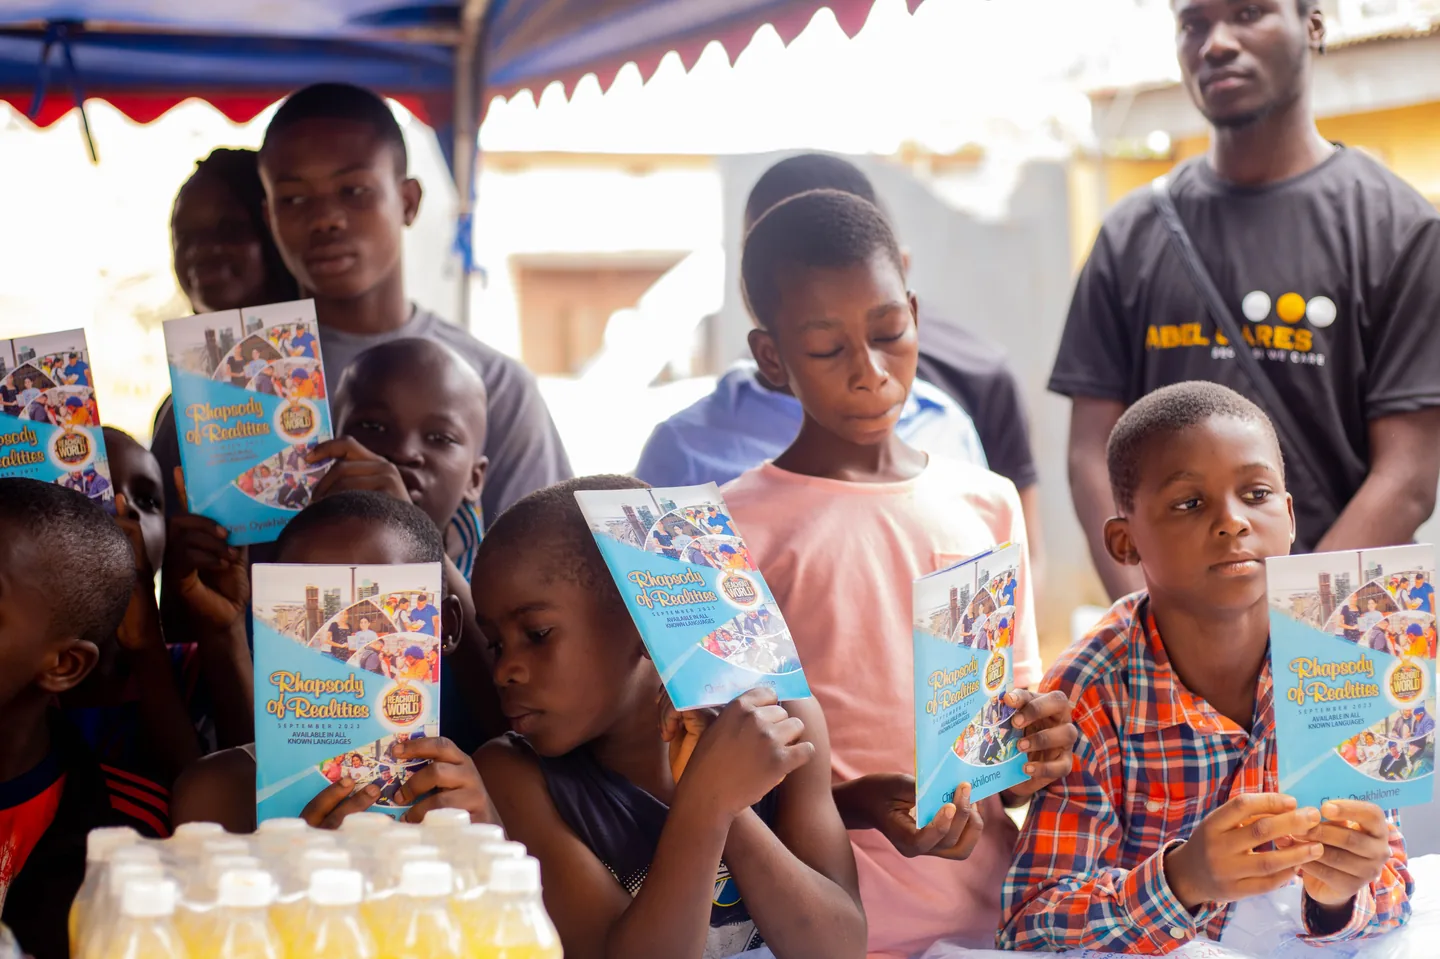
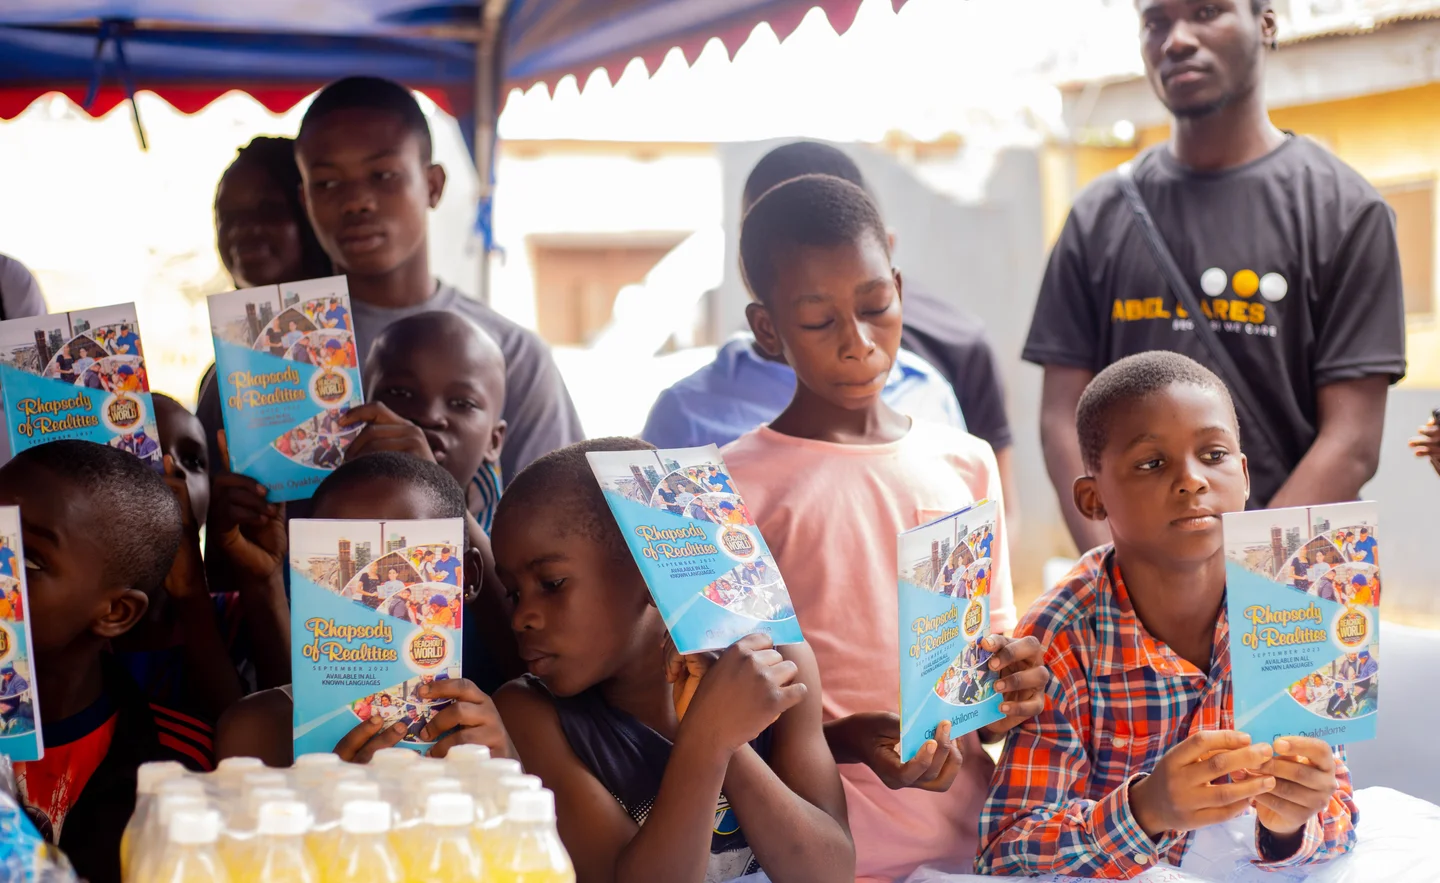
feat(impact): full-bleed green band with 1,500 stat, milestone rows, 3-photo mosaic

diff --git a/impact.html b/impact.html
@@ -63,26 +63,28 @@
 
   <main id="main-content">
 
-    <!-- ── 1. OPENER: TEXT-LEFT WITH BRUSH-UNDERLINE & REAL PHOTO ── -->
+    <!-- ── 1. OPENER: TEXT-LEFT WITH BRUSH-UNDERLINE & WATERMARK-FREE PHOTO ── -->
     <section class="aci-page-hero" aria-labelledby="impact-title">
       <div class="aci-container">
-        <div class="aci-page-hero-grid">
+        <div class="aci-page-hero-grid" style="align-items: center;">
           <div class="aci-page-hero-content">
+            <span class="aci-eyebrow">Measurable Outcomes</span>
             <h1 id="impact-title" class="aci-h1">
-              What we've done <span class="aci-brush-wrap">so far.<span class="aci-brush-stroke" aria-hidden="true"></span></span>
+              <span class="aci-line-mask"><span class="aci-mask-rise">What we've done</span></span>
+              <span class="aci-line-mask"><span class="aci-mask-rise aci-line-2"><span class="aci-brush-wrap">so far.<span class="aci-brush-stroke" aria-hidden="true"></span></span></span></span>
             </h1>
             <p class="aci-lead">
               We empower individuals, communities, and institutions through programs that address learning, mental well-being, youth empowerment, and community resilience.
             </p>
           </div>
           <div class="aci-page-hero-media">
-            <div class="aci-rounded-frame" style="aspect-ratio: 16/10;">
+            <div class="aci-photo-wipe aci-rounded-frame" style="aspect-ratio: 16/10; border-radius: 8px; overflow: hidden; box-shadow: 0 4px 16px rgba(0,0,0,0.06);">
               <img src="images/IMG_8910.webp"
                    srcset="images/IMG_8910-480w.webp 480w, images/IMG_8910-960w.webp 960w, images/IMG_8910-1440w.webp 1440w, images/IMG_8910.webp 1600w"
                    sizes="(max-width: 991px) 100vw, 45vw"
                    alt="AbleCares Initiative Africa school outreach and learning materials distribution in Ghana"
                    width="1600"
-                   height="1066"
+                   height="980"
                    fetchpriority="high">
             </div>
           </div>
@@ -90,24 +92,115 @@
       </div>
     </section>
 
-    <!-- ── 2. VERIFIED METRIC (1 VISIBLE STAT ONLY) ── -->
-    <section class="aci-section aci-band" aria-label="Verified Metric">
+    <!-- ── CULTURAL LAYER (QUARANTINED BEHIND body.aci-cultural-on) ── -->
+    <div class="aci-cultural-element" aria-hidden="true">
+      <img src="images/patterns/woven-band.svg" alt="" style="width: 100%; height: 32px; display: block;">
+    </div>
+    <!-- [CULTURAL REVIEW SLOT: Akan Woforo Dua Pa A symbol / proverb pending founder sign-off in language-review.md] -->
+
+    <!-- ── 2. FULL-BLEED GREEN BAND WITH AFRICA SILHOUETTE & GIANT 1,500 ── -->
+    <section class="aci-impact-green-band" aria-label="Program Scale">
       <div class="aci-container">
-        <div class="aci-stat-card">
-          <div class="aci-stat-num">
-            1,500 <span class="aci-badge-completed" style="font-size: 0.875rem; vertical-align: middle;">[VERIFY]</span>
+        <div class="aci-impact-band-inner">
+          <div>
+            <span class="aci-eyebrow" style="color: rgba(255, 255, 255, 0.85); margin-bottom: 8px;">Documented Reach</span>
+            <div class="aci-giant-stat-num" data-counter-target="1500">1,500</div>
+            <!-- [VERIFY: 1,500 young people mentored through EmpowerTalks Africa (Section 5A spells 'EmpowerTalks Africa', Section 10 spells 'EmpoweredTalks Africa')] -->
+            <div class="aci-giant-stat-label">
+              Young people mentored through EmpowerTalks Africa
+            </div>
+            <p class="aci-giant-stat-desc">
+              Foundational youth mentorship, speaking events, and community engagement conducted across outreach sessions.
+            </p>
           </div>
-          <div class="aci-stat-label">
-            Young people mentored through EmpoweredTalks Africa
+          <div class="aci-africa-silhouette-outline" aria-hidden="true">
+            <!-- Natural Earth Africa Outline [Source: Natural Earth public domain vector data] -->
+            <svg viewBox="0 0 400 440" xmlns="http://www.w3.org/2000/svg">
+              <path d="M140 25 C190 20 280 40 330 90 C360 120 375 160 370 200 C360 230 330 260 300 290 C260 330 220 380 200 420 C190 410 180 370 170 340 C150 280 120 240 100 200 C70 160 50 140 60 100 C70 60 100 30 140 25 Z" />
+            </svg>
           </div>
-          <p class="aci-stat-desc">
-            Youth mentorship, speaking events, and community engagement conducted across outreach sessions.
-          </p>
         </div>
       </div>
     </section>
 
-    <!-- ── 3. FIELD CASE STUDIES (QUARANTINED PENDING AUTHENTIC CLIENT RECORDS) ── -->
+    <!-- ── 3. ACHIEVEMENTS & MILESTONES (EXACT ACI DOCUMENT SECTION 10 TITLES) ── -->
+    <section class="aci-section" aria-labelledby="milestones-heading" style="padding: clamp(56px, 7vw, 112px) 0;">
+      <div class="aci-container">
+        <div>
+          <span class="aci-eyebrow">Program Milestones</span>
+          <h2 id="milestones-heading" class="aci-h2">
+            <span class="aci-line-mask"><span class="aci-mask-rise">Achievements &amp; milestones.</span></span>
+          </h2>
+          <p class="aci-division-lead" style="margin-top: var(--s-2);">
+            Examples of program milestones documented across Ghana:
+          </p>
+        </div>
+
+        <ul class="aci-milestone-rows">
+          <li class="aci-milestone-row" tabindex="0">
+            <span class="aci-milestone-idx" aria-hidden="true">01</span>
+            <span class="aci-milestone-title">Successful school outreach programs across Ghana</span>
+          </li>
+          <li class="aci-milestone-row" tabindex="0">
+            <span class="aci-milestone-idx" aria-hidden="true">02</span>
+            <span class="aci-milestone-title">Mental health advocacy and training in multiple communities</span>
+          </li>
+          <li class="aci-milestone-row" tabindex="0">
+            <span class="aci-milestone-idx" aria-hidden="true">03</span>
+            <span class="aci-milestone-title">
+              Youth mentorship for 1,500 young people through EmpowerTalks Africa
+              <!-- [VERIFY: Section 5A spells 'EmpowerTalks Africa', Section 10 spells 'EmpoweredTalks Africa'] -->
+            </span>
+          </li>
+          <li class="aci-milestone-row" tabindex="0">
+            <span class="aci-milestone-idx" aria-hidden="true">04</span>
+            <span class="aci-milestone-title">Leadership in Autism &amp; SEN Show Africa</span>
+          </li>
+          <li class="aci-milestone-row" tabindex="0">
+            <span class="aci-milestone-idx" aria-hidden="true">05</span>
+            <span class="aci-milestone-title">Digital futures programs and awareness initiatives</span>
+          </li>
+          <li class="aci-milestone-row" tabindex="0">
+            <span class="aci-milestone-idx" aria-hidden="true">06</span>
+            <span class="aci-milestone-title">Mental health documentary and policy advocacy campaigns</span>
+          </li>
+        </ul>
+
+        <!-- ── 4. THREE-PHOTO MOSAIC ── -->
+        <div class="aci-mosaic-grid">
+          <div class="aci-mosaic-item aci-photo-wipe aci-stagger-1">
+            <img src="images/IMG_8889.webp"
+                 srcset="images/IMG_8889-480w.webp 480w, images/IMG_8889-960w.webp 960w, images/IMG_8889.webp 1200w"
+                 sizes="(max-width: 768px) 100vw, 33vw"
+                 alt="Community relief and educational support provisions assembled for distribution in Ghana"
+                 width="1200"
+                 height="900"
+                 loading="lazy">
+          </div>
+          <div class="aci-mosaic-item aci-photo-wipe aci-stagger-2">
+            <img src="images/IMG_8930.webp"
+                 srcset="images/IMG_8930-480w.webp 480w, images/IMG_8930-960w.webp 960w, images/IMG_8930.webp 1200w"
+                 sizes="(max-width: 768px) 100vw, 33vw"
+                 alt="ACI Africa community leaders and facilitators conferring outdoors during outreach program in Ghana"
+                 width="1200"
+                 height="900"
+                 loading="lazy">
+          </div>
+          <div class="aci-mosaic-item aci-photo-wipe aci-stagger-3">
+            <img src="images/IMG_8908.webp"
+                 srcset="images/IMG_8908-480w.webp 480w, images/IMG_8908-960w.webp 960w, images/IMG_8908.webp 1200w"
+                 sizes="(max-width: 768px) 100vw, 33vw"
+                 alt="AbleCares Initiative Africa youth facilitator engaging with community members and families in Ghana"
+                 width="1200"
+                 height="900"
+                 loading="lazy">
+          </div>
+        </div>
+
+      </div>
+    </section>
+
+    <!-- ── 5. FIELD CASE STUDIES (QUARANTINED PENDING AUTHENTIC CLIENT RECORDS) ── -->
     <!-- [VERIFY-COPY: The ACI organizational profile document contains no case study write-ups or participant narratives. The following draft case studies from pass 2 are hidden per copy rules until verified client text is provided:
     <section class="aci-section" aria-labelledby="case-studies-heading">
       <div class="aci-container">
@@ -125,63 +218,6 @@
       </div>
     </section>
     -->
-
-    <!-- ── 4. ACHIEVEMENTS & MILESTONES (EXACT ACI DOCUMENT SECTION 10) ── -->
-    <section class="aci-section" aria-labelledby="milestones-heading">
-      <div class="aci-container">
-        <div class="aci-division-grid">
-          <div class="aci-division-content">
-            <h2 id="milestones-heading" class="aci-h2">
-              Achievements &amp; milestones.
-            </h2>
-            <p class="aci-division-lead">
-              Examples of verified program milestones documented across Ghana:
-            </p>
-
-            <ul class="aci-program-list">
-              <li class="aci-program-item">
-                <span class="aci-program-title">Successful school outreach programs across Ghana</span>
-                <span class="aci-program-desc">Educational support, learning supplies, and youth encouragement in basic schools.</span>
-              </li>
-              <li class="aci-program-item">
-                <span class="aci-program-title">Mental health advocacy and training in multiple communities</span>
-                <span class="aci-program-desc">Community awareness sessions, stigma reduction, and capacity building for local leaders.</span>
-              </li>
-              <li class="aci-program-item">
-                <span class="aci-program-title">
-                  Youth mentorship for 1,500 young people through EmpoweredTalks Africa <span class="aci-badge-completed">[VERIFY]</span>
-                </span>
-                <span class="aci-program-desc">Foundational youth empowerment program impacting young people across Ghana.</span>
-              </li>
-              <li class="aci-program-item">
-                <span class="aci-program-title">Leadership in Autism &amp; SEN Show Africa</span>
-                <span class="aci-program-desc">Advocacy and specialized engagement for special needs and neurodivergent individuals.</span>
-              </li>
-              <li class="aci-program-item">
-                <span class="aci-program-title">Digital futures programs and awareness initiatives</span>
-                <span class="aci-program-desc">Digital skills literacy, AI awareness workshops, and youth technology orientation.</span>
-              </li>
-              <li class="aci-program-item">
-                <span class="aci-program-title">Mental health documentary and policy advocacy campaigns</span>
-                <span class="aci-program-desc">Continental advocacy media highlighting public mental health needs and systemic policy reform.</span>
-              </li>
-            </ul>
-          </div>
-
-          <div class="aci-division-media">
-            <div class="aci-rounded-frame" style="aspect-ratio: 4/3;">
-              <img src="images/IMG_8908.webp"
-                   srcset="images/IMG_8908-480w.webp 480w, images/IMG_8908-960w.webp 960w, images/IMG_8908.webp 1200w"
-                   sizes="(max-width: 991px) 100vw, 40vw"
-                   alt="AbleCares Initiative Africa youth facilitator engaging with community members and families in Ghana"
-                   width="1200"
-                   height="900"
-                   loading="lazy">
-            </div>
-          </div>
-        </div>
-      </div>
-    </section>
 
   </main>
 
